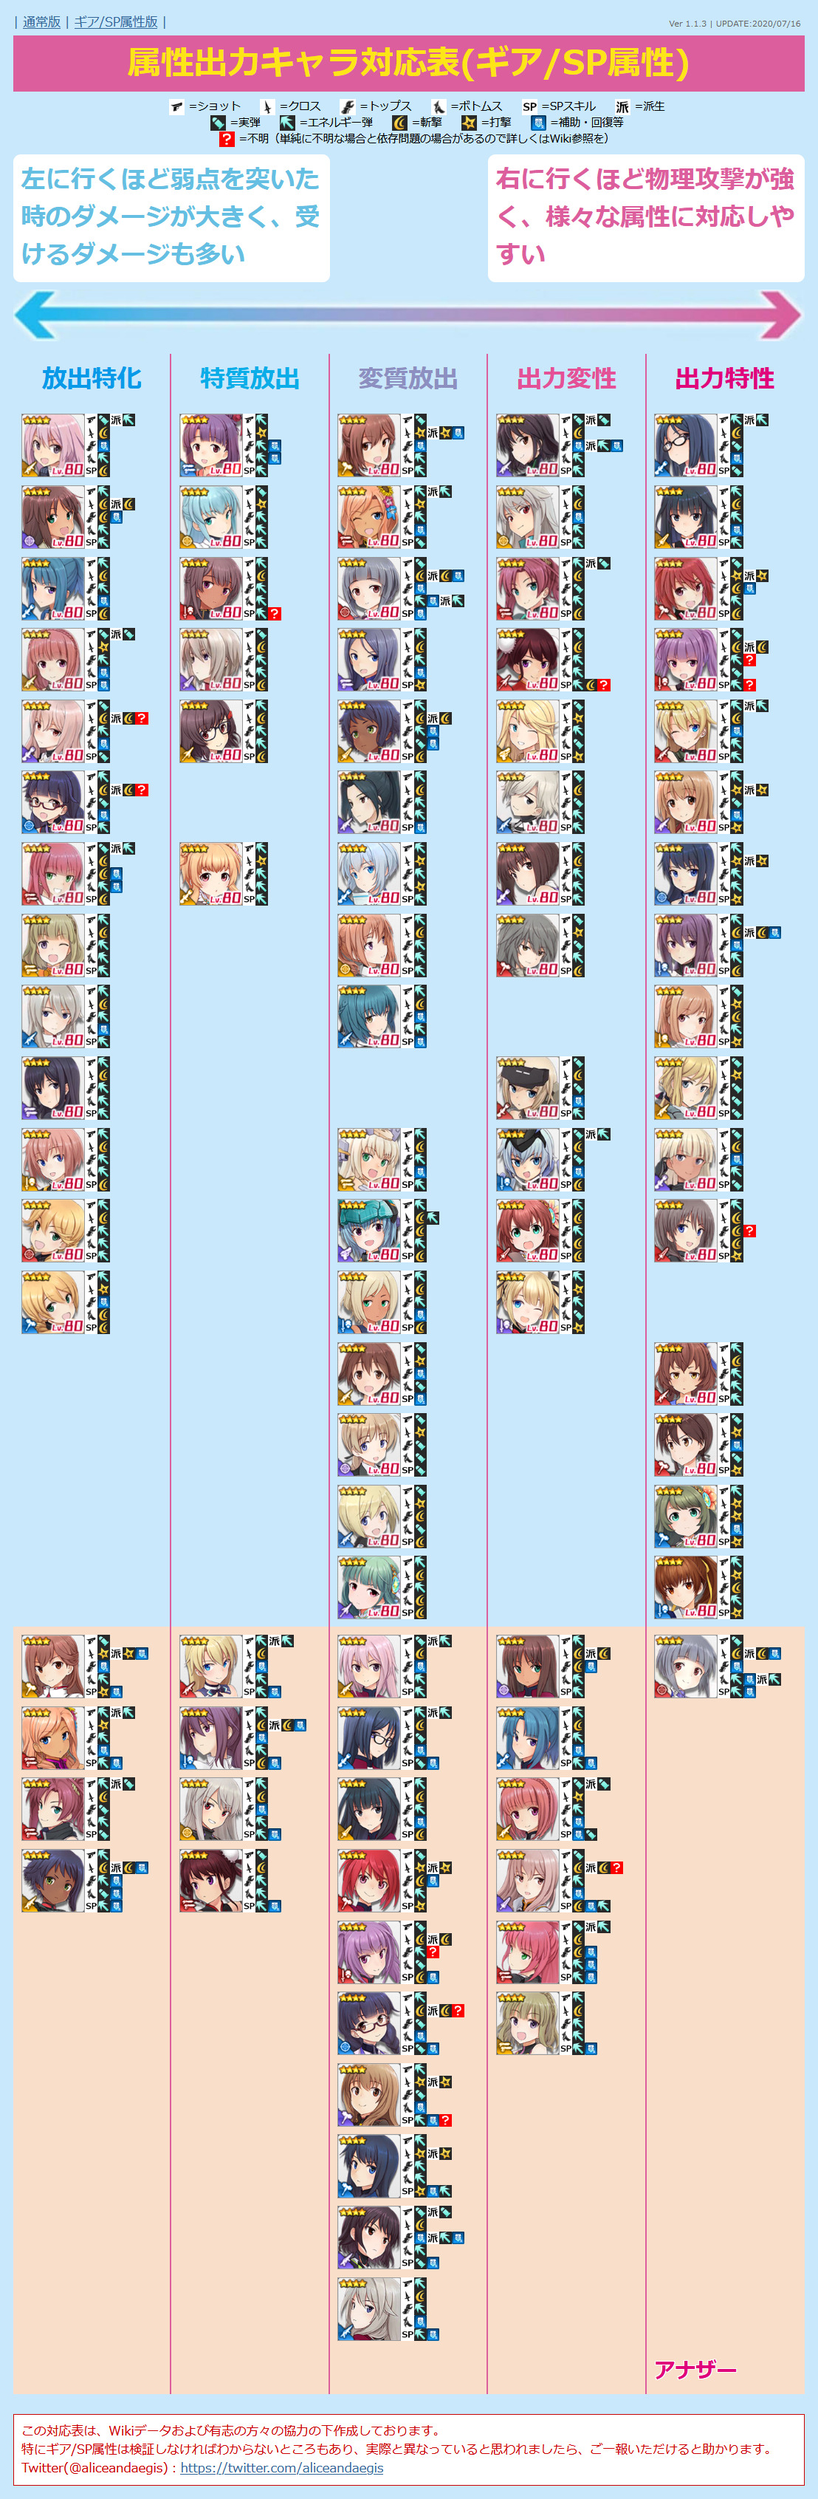
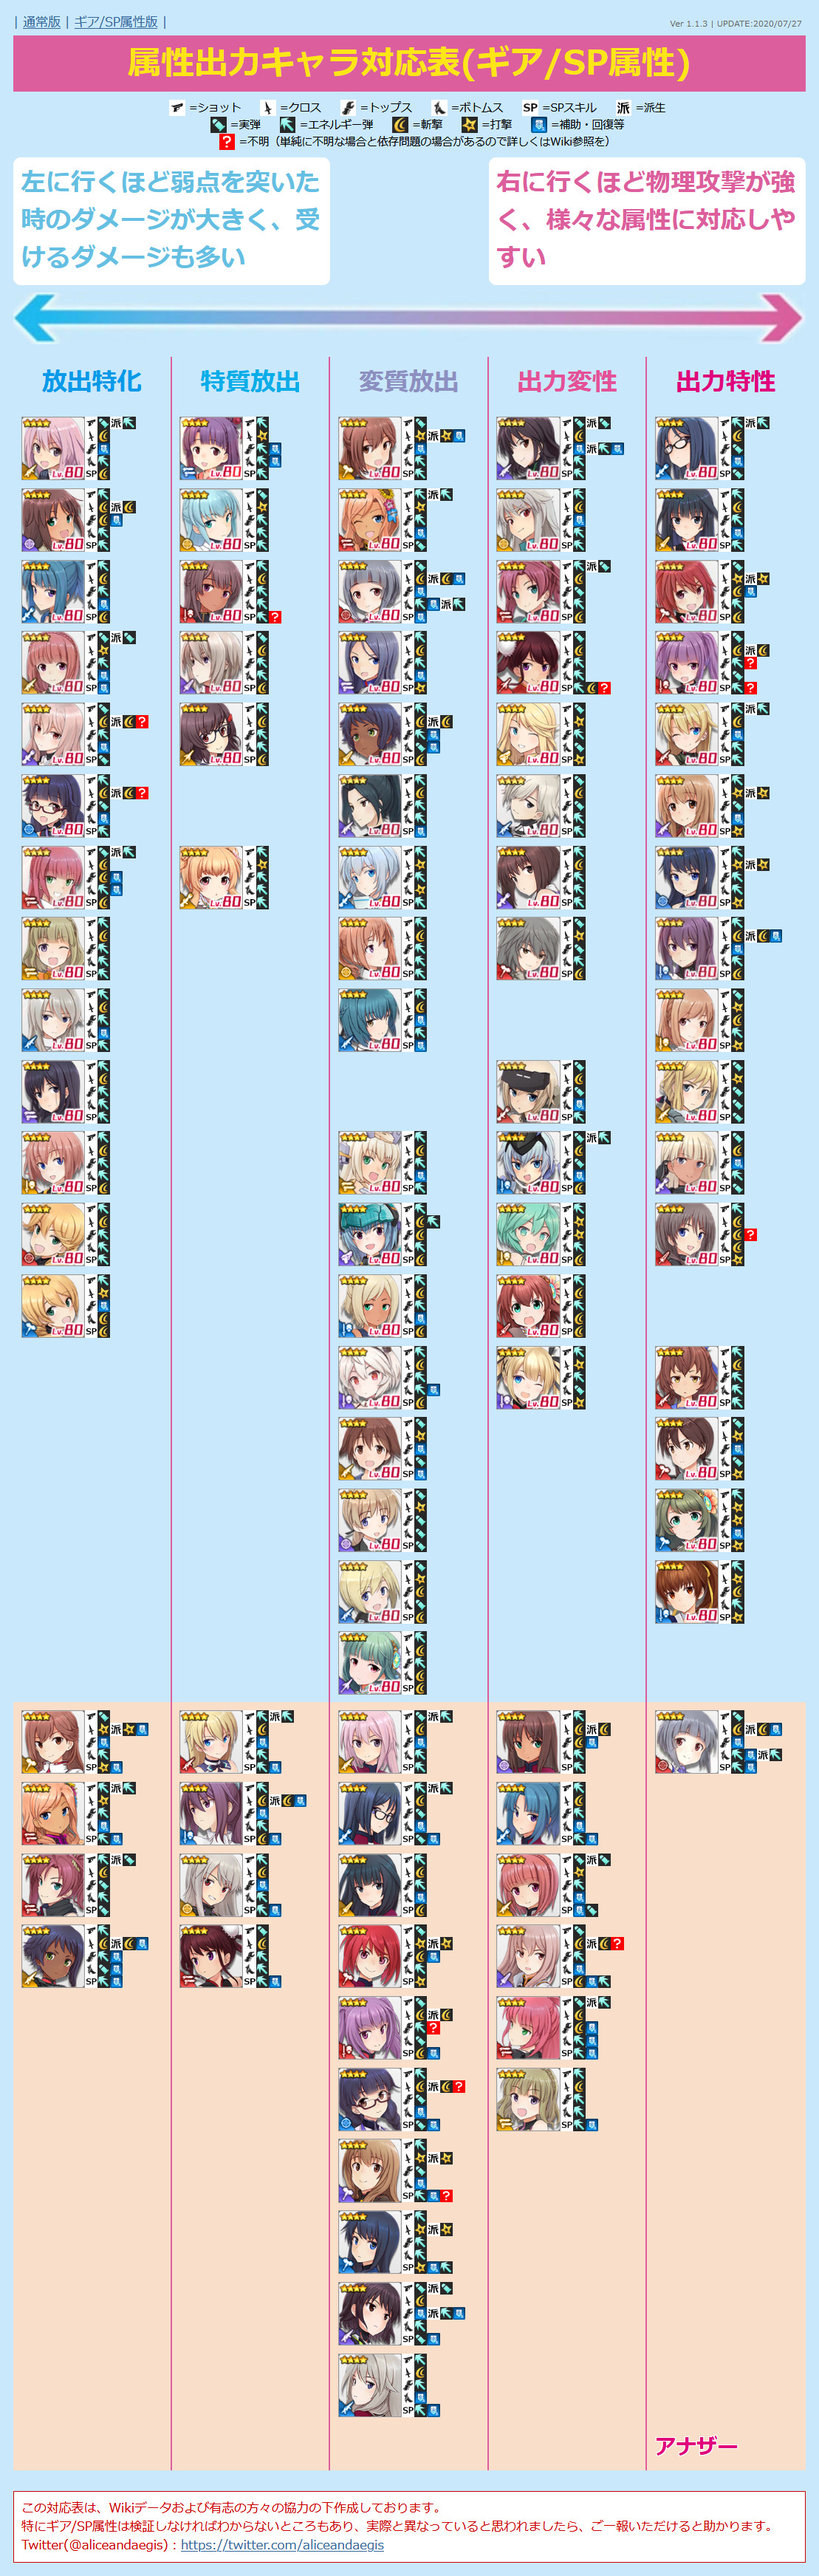
UPDATE chara deta
シルフィー2とシルフィー2 ModeBを追加

diff --git a/alice.html b/alice.html
@@ -12,7 +12,7 @@
   <script>
 
 /* 更新情報 必要に応じて書き換えてください */
-  var version = "Ver 1.1.3 | UPDATE:2020/07/16";
+  var version = "Ver 1.1.3 | UPDATE:2020/07/27";
 
 /*
   jsonファイルを外部に設置すると単にHTMLファイルを開いたときに動作しなくなるので当面はHTMLファイル内に
@@ -28,9 +28,9 @@
 
   equip1   = ショット：1=実弾、2=エネルギー弾（複数=12、派生=1/2）
   equip2   = クロス：3=斬撃、4=打撃（複数の場合=34）
-  equip3   = トップススキル：1=実弾、2=エネルギー弾、3=打撃、4=斬撃、5=補助/回復
-  equip4   = ボトムススキル：1=実弾、2=エネルギー弾、3=打撃、4=斬撃、5=補助/回復
-  sp       = ボトムススキル：1=実弾、2=エネルギー弾、3=打撃、4=斬撃、5=補助/回復
+  equip3   = トップススキル：1=実弾、2=エネルギー弾、3=斬撃、4=打撃、5=補助/回復
+  equip4   = ボトムススキル：1=実弾、2=エネルギー弾、3=斬撃、4=打撃、5=補助/回復
+  sp       = ボトムススキル：1=実弾、2=エネルギー弾、3=斬撃、4=打撃、5=補助/回復
   ※情報不足でわからないところは ?=不明
 
   attr     = 1=電撃属性、2=重力属性、3=焼夷属性、4=冷撃属性
@@ -1139,6 +1139,34 @@
       "sp": "3",
       "attr": "4",
       "link": "https://wikiwiki.jp/alicegear/SOL%20%E3%82%B9%E3%83%88%E3%83%A9%E3%82%A4%E3%82%AF%E3%83%A9%E3%83%97%E3%82%BF%E3%83%BC",
+      "category": "99"
+    },
+    {
+      "id": "203",
+      "type": "4",
+      "src": "normal-sylphy2.png",
+      "name": "シルフィーII",
+      "equip1": "2",
+      "equip2": "4",
+      "equip3": "4",
+      "equip4": "2",
+      "sp": "3",
+      "attr": "1",
+      "link": "https://wikiwiki.jp/alicegear/%E3%82%B7%E3%83%AB%E3%83%95%E3%82%A3%E3%83%BCII",
+      "category": "99"
+    },
+    {
+      "id": "204",
+      "type": "3",
+      "src": "normal-sylphy2-mode-b.png",
+      "name": "シルフィーII  Mode-B",
+      "equip1": "2",
+      "equip2": "3",
+      "equip3": "2",
+      "equip4": "25",
+      "sp": "3",
+      "attr": "2",
+      "link": "https://wikiwiki.jp/alicegear/%E3%82%B7%E3%83%AB%E3%83%95%E3%82%A3%E3%83%BCIIMode-B",
       "category": "99"
     },
     {
